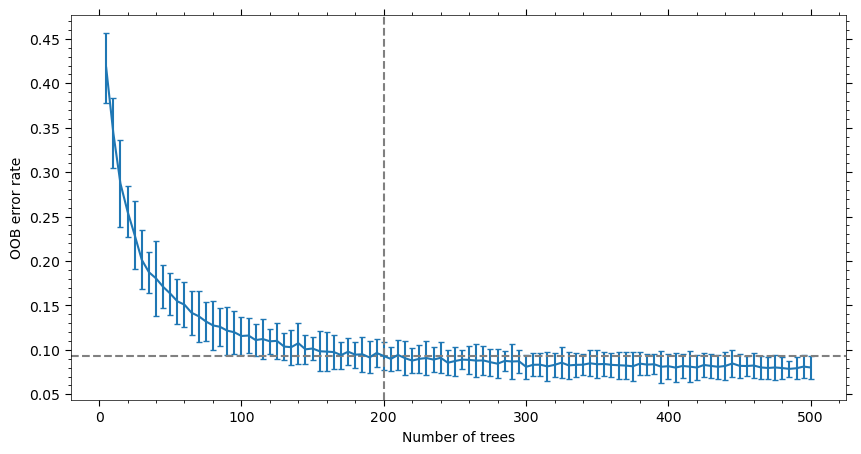
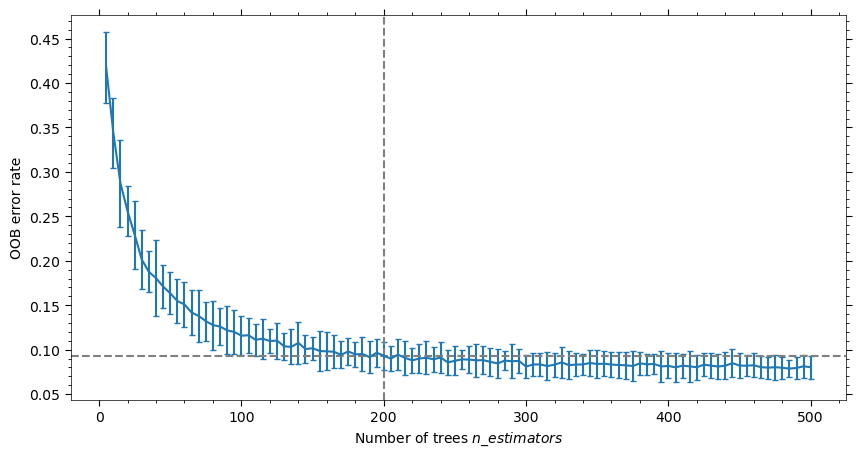
Updated some plots and code on q4.

diff --git a/src/q4/scripts/_q4d.py b/src/q4/scripts/_q4d.py
@@ -4,11 +4,15 @@ import pandas as pd
 import os
 import matplotlib.pyplot as plt
 from multiprocessing import Pool
+
 from src.utils import (
     compute_confidence_interval,
     format_axes,
     save_fig,
     compute_num_cores_to_utilise,
+    cross_validate_report,
+    format_contingency_table,
+    create_table,
 )
 
 
@@ -61,8 +65,31 @@ def q4d():
     plt.axhline(y=means[idx], color='gray', linestyle='--')
     plt.axvline(x=n_estimators[idx], color='gray', linestyle='--')
 
-    plt.xlabel('Number of trees')
+    plt.xlabel(r'Number of trees $n\_estimators$')
     plt.ylabel('OOB error rate')
 
     format_axes(ax)
     save_fig(__file__, 'q4d.png')
+
+    report, cmatrix, test_set_classification_error = cross_validate_report(
+        X, y, RandomForestClassifier(random_state=3438, n_estimators=200)
+    )
+
+    tbl = format_contingency_table(
+        np.round(cmatrix.values, 2),
+        columns=['1', '2', '3', 'Total (actual)'],
+        index=['1', '2', '3', 'Total (predictions)'],
+        figsize=(5, 2),
+    )
+
+    tbl[4, 3].set_facecolor('white')
+    tbl[4, 3].set_text_props(color='white')
+
+    save_fig(__file__, 'q4d_confusion_matrix_200_trees.png')
+
+    tbl = create_table(report.round(2), figsize=(5, 2))
+
+    tbl[4, 3].set_text_props(color='white')
+    tbl[5, 3].set_text_props(color='white')
+
+    save_fig(__file__, 'q4d_classification_report_200_trees.png')

diff --git a/src/q4/scripts/_q4e.py b/src/q4/scripts/_q4e.py
@@ -37,7 +37,7 @@ def q4e():
     X_subset = data[most_importance_features['feature']].copy().values
 
     report, cmatrix, test_set_classification_error = cross_validate_report(
-        X_subset, y, RandomForestClassifier(random_state=3438)
+        X_subset, y, RandomForestClassifier(random_state=3438, n_estimators=200)
     )
 
     tbl = format_contingency_table(
